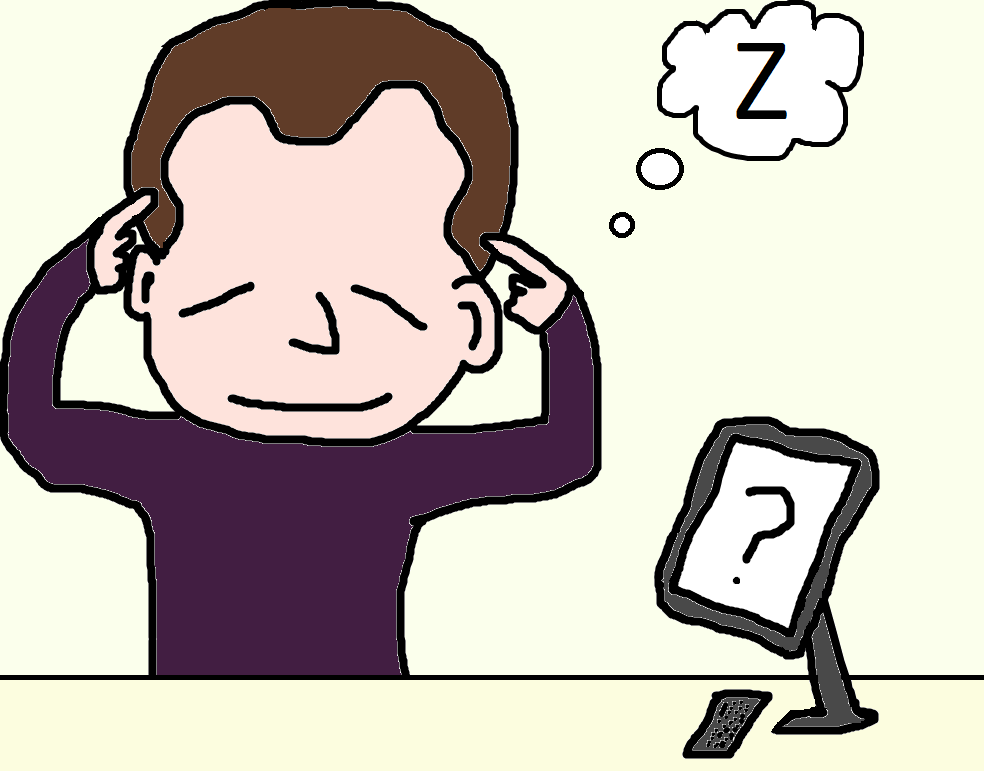
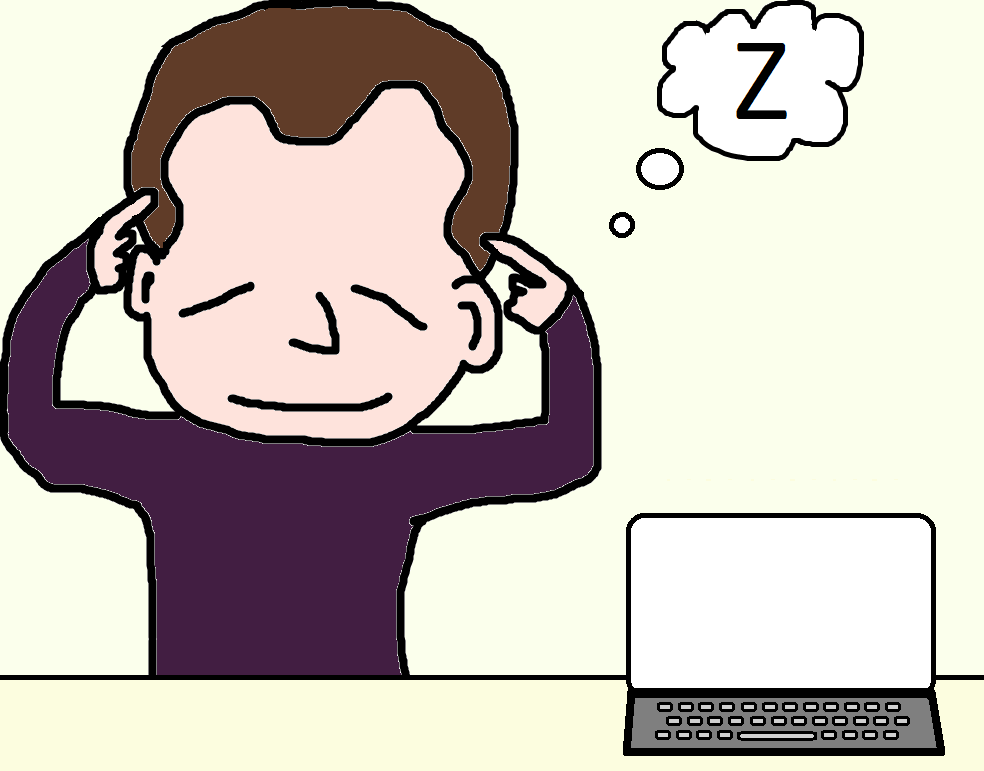
added comp letter to comp screen

Changed region(s): [[0.6098, 0.5292, 0.9756, 0.9961], [0.7317, 0.716, 0.7622, 0.7471]]

diff --git a/assets/javascript/game.js b/assets/javascript/game.js
@@ -45,6 +45,7 @@ document.addEventListener('keydown', function (event) {
             wins++;
             document.querySelector("#wins").innerHTML = wins;
             document.querySelector("#computerGuess").innerHTML = computerGuess.toUpperCase();
+            document.querySelector("#compScreen").innerHTML = computerGuess.toUpperCase();
             reset();
         }
 
@@ -52,44 +53,19 @@ document.addEventListener('keydown', function (event) {
             losses++;
             document.querySelector("#losses").innerHTML = losses;
             document.querySelector("#computerGuess").innerHTML = computerGuess.toUpperCase();
+            document.querySelector("#compScreen").innerHTML = computerGuess.toUpperCase();
             reset();
         }
 
 
 
-        document.querySelector("#compScreen").innerHTML = userGuess.toUpperCase();
+        document.querySelector("#cloudScreen").innerHTML = userGuess.toUpperCase();
 
     }else {
         alert("Wrong Key. Please select A, B, C, or D");
     }
 });
 
-
-// document.addEventListener('click', function (event) {
-// var keySimA = function () {
-//     userGuess = "A";
-//     console.log(userGuess)
-// };
-
-// var keySimB = function () {
-//     userGuess = "B";
-//     console.log(userGuess)
-// };
-
-// var keySimC = function () {
-//     userGuess = "C";
-//     console.log(userGuess)
-// };
-
-// var keySimD = function () {
-//     userGuess = "D";
-//     console.log(userGuess)
-// };
-
-// var keySimE = function () {
-//     userGuess = "E";
-//     console.log(userGuess)
-// };
 
 document.addEventListener('mouseover', function (event) {
 
@@ -106,6 +82,7 @@ document.addEventListener('mouseover', function (event) {
             wins++;
             document.querySelector("#wins").innerHTML = wins;
             document.querySelector("#computerGuess").innerHTML = computerGuess.toUpperCase();
+            document.querySelector("#compScreen").innerHTML = computerGuess.toUpperCase();
             reset();
         }
 
@@ -113,10 +90,11 @@ document.addEventListener('mouseover', function (event) {
             losses++;
             document.querySelector("#losses").innerHTML = losses;
             document.querySelector("#computerGuess").innerHTML = computerGuess.toUpperCase();
+            document.querySelector("#compScreen").innerHTML = computerGuess.toUpperCase();
             reset();
         }
 
-        document.querySelector("#compScreen").innerHTML = userGuess.toUpperCase();
+        document.querySelector("#cloudScreen").innerHTML = userGuess.toUpperCase();
     };
 
     document.getElementById("btnB").onclick = function () {
@@ -132,6 +110,7 @@ document.addEventListener('mouseover', function (event) {
             wins++;
             document.querySelector("#wins").innerHTML = wins;
             document.querySelector("#computerGuess").innerHTML = computerGuess.toUpperCase();
+            document.querySelector("#compScreen").innerHTML = computerGuess.toUpperCase();
             reset();
         }
 
@@ -139,10 +118,11 @@ document.addEventListener('mouseover', function (event) {
             losses++;
             document.querySelector("#losses").innerHTML = losses;
             document.querySelector("#computerGuess").innerHTML = computerGuess.toUpperCase();
+            document.querySelector("#compScreen").innerHTML = computerGuess.toUpperCase();
             reset();
         }
 
-        document.querySelector("#compScreen").innerHTML = userGuess.toUpperCase();
+        document.querySelector("#cloudScreen").innerHTML = userGuess.toUpperCase();
     };
 
     document.getElementById("btnC").onclick = function () {
@@ -158,6 +138,7 @@ document.addEventListener('mouseover', function (event) {
             wins++;
             document.querySelector("#wins").innerHTML = wins;
             document.querySelector("#computerGuess").innerHTML = computerGuess.toUpperCase();
+            document.querySelector("#compScreen").innerHTML = computerGuess.toUpperCase();
             reset();
         }
 
@@ -165,10 +146,11 @@ document.addEventListener('mouseover', function (event) {
             losses++;
             document.querySelector("#losses").innerHTML = losses;
             document.querySelector("#computerGuess").innerHTML = computerGuess.toUpperCase();
+            document.querySelector("#compScreen").innerHTML = computerGuess.toUpperCase();
             reset();
         }
 
-        document.querySelector("#compScreen").innerHTML = userGuess.toUpperCase();
+        document.querySelector("#cloudScreen").innerHTML = userGuess.toUpperCase();
     };
 
     document.getElementById("btnD").onclick = function () {
@@ -184,6 +166,7 @@ document.addEventListener('mouseover', function (event) {
             wins++;
             document.querySelector("#wins").innerHTML = wins;
             document.querySelector("#computerGuess").innerHTML = computerGuess.toUpperCase();
+            document.querySelector("#compScreen").innerHTML = computerGuess.toUpperCase();
             reset();
         }
 
@@ -191,10 +174,11 @@ document.addEventListener('mouseover', function (event) {
             losses++;
             document.querySelector("#losses").innerHTML = losses;
             document.querySelector("#computerGuess").innerHTML = computerGuess.toUpperCase();
+            document.querySelector("#compScreen").innerHTML = computerGuess.toUpperCase();
             reset();
         }
 
-        document.querySelector("#compScreen").innerHTML = userGuess.toUpperCase();
+        document.querySelector("#cloudScreen").innerHTML = userGuess.toUpperCase();
     };
 
     document.getElementById("btnE").onclick = function () {
@@ -210,6 +194,7 @@ document.addEventListener('mouseover', function (event) {
             wins++;
             document.querySelector("#wins").innerHTML = wins;
             document.querySelector("#computerGuess").innerHTML = computerGuess.toUpperCase();
+            document.querySelector("#compScreen").innerHTML = computerGuess.toUpperCase();
             reset();
         }
 
@@ -217,10 +202,11 @@ document.addEventListener('mouseover', function (event) {
             losses++;
             document.querySelector("#losses").innerHTML = losses;
             document.querySelector("#computerGuess").innerHTML = computerGuess.toUpperCase();
+            document.querySelector("#compScreen").innerHTML = computerGuess.toUpperCase();
             reset();
         }
 
-        document.querySelector("#compScreen").innerHTML = userGuess.toUpperCase();
+        document.querySelector("#cloudScreen").innerHTML = userGuess.toUpperCase();
     };
 
 });
@@ -266,7 +252,7 @@ document.addEventListener('mouseover', function (event) {
         //     reset();
         // }
 
-        // document.querySelector("#compScreen").innerHTML = userGuess.toUpperCase();
+        // document.querySelector("#cloudScreen").innerHTML = userGuess.toUpperCase();
 
 
 

diff --git a/assets/css/style.css b/assets/css/style.css
@@ -78,7 +78,7 @@ img {
     border-radius: 20px;
 }
 
-#compScreen {
+#cloudScreen {
     line-height: smaller;
     vertical-align: middle;
     text-align: center;
@@ -93,6 +93,23 @@ img {
     left: 72.75%;
     top: 4%;
 }
+
+#compScreen {
+        line-height: smaller;
+        vertical-align: middle;
+        text-align: center;
+        z-index: 3;
+        height: 75px;
+        width: 75px;
+        font-family: 'Jua', sans-serif;
+        font-size: 75px;
+        color: black;
+        background-color: rgb(255, 255, 255);
+        position: absolute;
+        left: 72%;
+        top: 70%;
+    }
+
 
 /* #rightPanel {
     vertical-align: top;
@@ -222,7 +239,7 @@ button:focus {
         border-radius: 20px;
     }
     
-    #compScreen {
+    #cloudScreen {
         line-height: 29px;
         vertical-align: middle;
         text-align: center;
@@ -238,6 +255,24 @@ button:focus {
         top: 6%;
     }
     
+#compScreen {
+    
+        line-height: smaller;
+        vertical-align: middle;
+        text-align: center;
+        z-index: 3;
+        height: 55px;
+        width: 50px;
+        font-family: 'Jua', sans-serif;
+        font-size: 60px;
+        color: black;
+        background-color: rgb(255, 255, 255);
+        position: absolute;
+        left: 72.75%;
+        top: 30%;
+    
+}
+
     /* #rightPanel {
         vertical-align: top;
         display: inline-block;
@@ -375,7 +410,7 @@ button:focus {
         border-radius: 20px;
     }
     
-    #compScreen {
+    #cloudScreen {
         line-height: 29px;
         vertical-align: middle;
         text-align: center;
@@ -389,6 +424,22 @@ button:focus {
         position: absolute;
         left: 72%;
         top: 6%;
+    }
+
+    #compScreen {
+        line-height: smaller;
+        vertical-align: middle;
+        text-align: center;
+        z-index: 3;
+        height: 55px;
+        width: 50px;
+        font-family: 'Jua', sans-serif;
+        font-size: 60px;
+        color: black;
+        background-color: rgb(255, 255, 255);
+        position: absolute;
+        left: 72.75%;
+        top: 30%;
     }
     
     /* #rightPanel {

diff --git a/index.html b/index.html
@@ -23,13 +23,14 @@
             <div id="leftPanel">
                 <p>Guesses Remaining: <span id="guesses-left">3</span></p>
                 <p>Your Guesses: <span id="userGuess"></span></p>
-                <p>The Computer's Guess: <span id="computerGuess"></span></p>
+                <p>The Computer's Last Guess: <span id="computerGuess"></span></p>
                 <p>Wins: <span id="wins">0</span></p>
                 <p>Losses: <span id="losses">0</span></p>
             </div>
             <div id="imageWrap">
                 <img src="assets/images/futureMan.png">
-                <div id="compScreen">Z</div>
+                <div id="cloudScreen">Z</div>
+                <div id="compScreen">N</div>
             </div>
         </div>
     </div>
